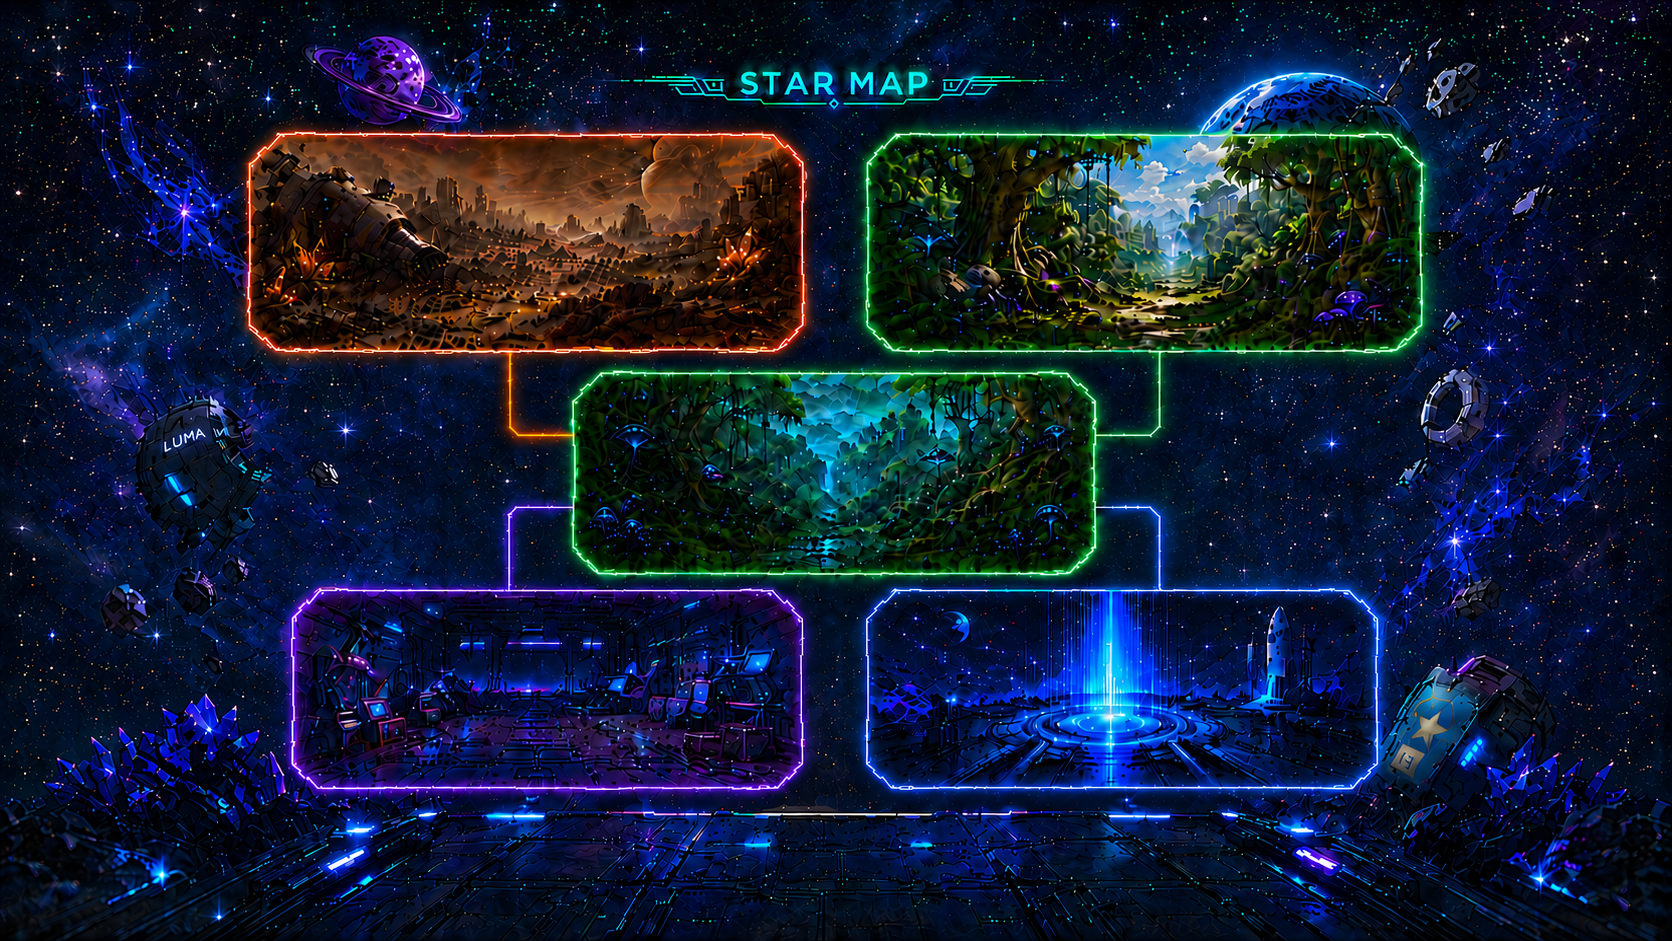
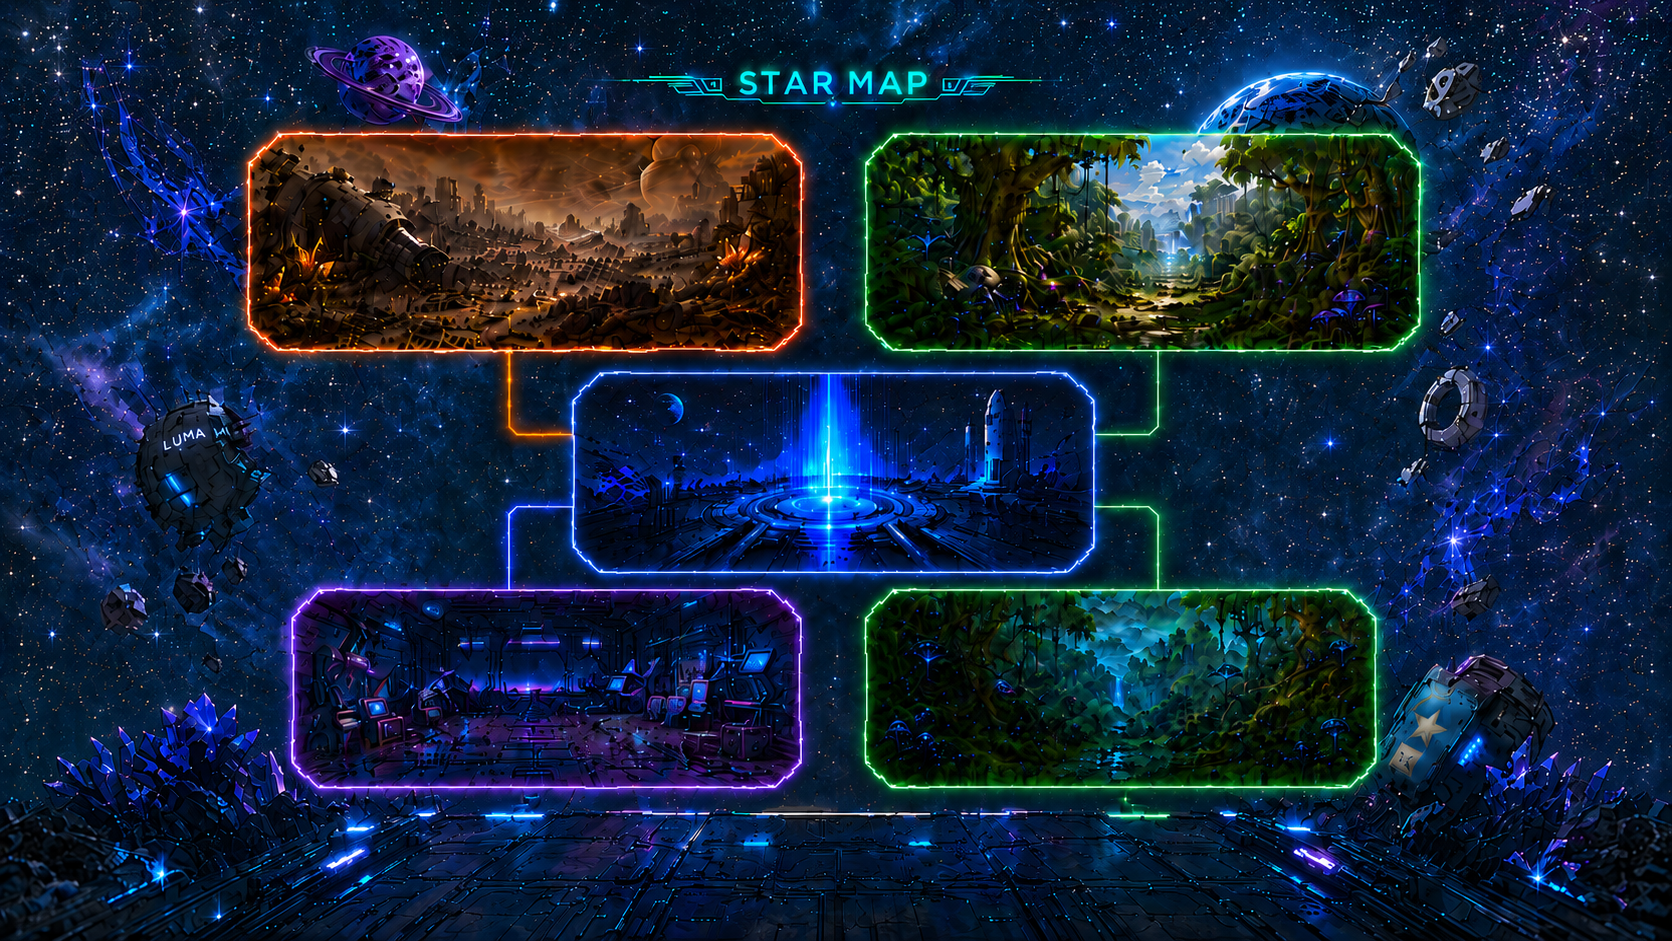
Star Map Adjustment

diff --git a/src/components/menuScreens.css b/src/components/menuScreens.css
@@ -1136,9 +1136,9 @@
 
 .star-zone--crash { left: 14.9%; top: 14.25%; width: 33.6%; height: 24.1%; --zone-color: #ff9b12; --zone-glow: rgba(255, 147, 16, 0.9); --zone-deep: #7b2e00; --node-hot: #fff3a3; --node-mid: #ff970f; --node-deep: #7a2f00; --node-glow: rgba(255, 154, 18, 0.86); }
 .star-zone--forest { left: 51.9%; top: 14.25%; width: 33.7%; height: 24.1%; --zone-color: #5cff9c; --zone-glow: rgba(72, 255, 142, 0.85); --zone-deep: #064c2e; --node-hot: #ddffd7; --node-mid: #42df68; --node-deep: #07542f; --node-glow: rgba(77, 255, 139, 0.76); }
-.star-zone--deep-forest { left: 34.15%; top: 39.65%; width: 31.6%; height: 22.2%; --zone-color: #42ff9c; --zone-glow: rgba(58, 255, 153, 0.84); --zone-deep: #043b2b; --node-hot: #d7ffe5; --node-mid: #20ba69; --node-deep: #033924; --node-glow: rgba(43, 225, 126, 0.72); }
+.star-zone--deep-forest { left: 51.9%; top: 62.7%; width: 31.3%; height: 21.3%; --zone-color: #42ff9c; --zone-glow: rgba(58, 255, 153, 0.84); --zone-deep: #043b2b; --node-hot: #d7ffe5; --node-mid: #20ba69; --node-deep: #033924; --node-glow: rgba(43, 225, 126, 0.72); }
 .star-zone--repair { left: 17.3%; top: 62.7%; width: 31.0%; height: 21.3%; --zone-color: #b46cff; --zone-glow: rgba(181, 92, 255, 0.85); --zone-deep: #38106f; --node-hot: #f0dbff; --node-mid: #a864ff; --node-deep: #351067; --node-glow: rgba(184, 105, 255, 0.78); }
-.star-zone--launch { left: 51.9%; top: 62.7%; width: 31.3%; height: 21.3%; --zone-color: #44d8ff; --zone-glow: rgba(52, 211, 255, 0.85); --zone-deep: #073f7e; --node-hot: #dff8ff; --node-mid: #34cfff; --node-deep: #063a8b; --node-glow: rgba(62, 211, 255, 0.8); }
+.star-zone--launch { left: 34.15%; top: 39.65%; width: 31.6%; height: 22.2%; --zone-color: #44d8ff; --zone-glow: rgba(52, 211, 255, 0.85); --zone-deep: #073f7e; --node-hot: #dff8ff; --node-mid: #34cfff; --node-deep: #063a8b; --node-glow: rgba(62, 211, 255, 0.8); }
 
 .star-zone__title {
   position: absolute;
@@ -1225,7 +1225,7 @@
   transform: translateX(2.5%);
 }
 
-.star-zone--launch .star-zone__node-layer {
+.star-zone--deep-forest .star-zone__node-layer {
   transform: translateX(-2.5%);
 }
 
